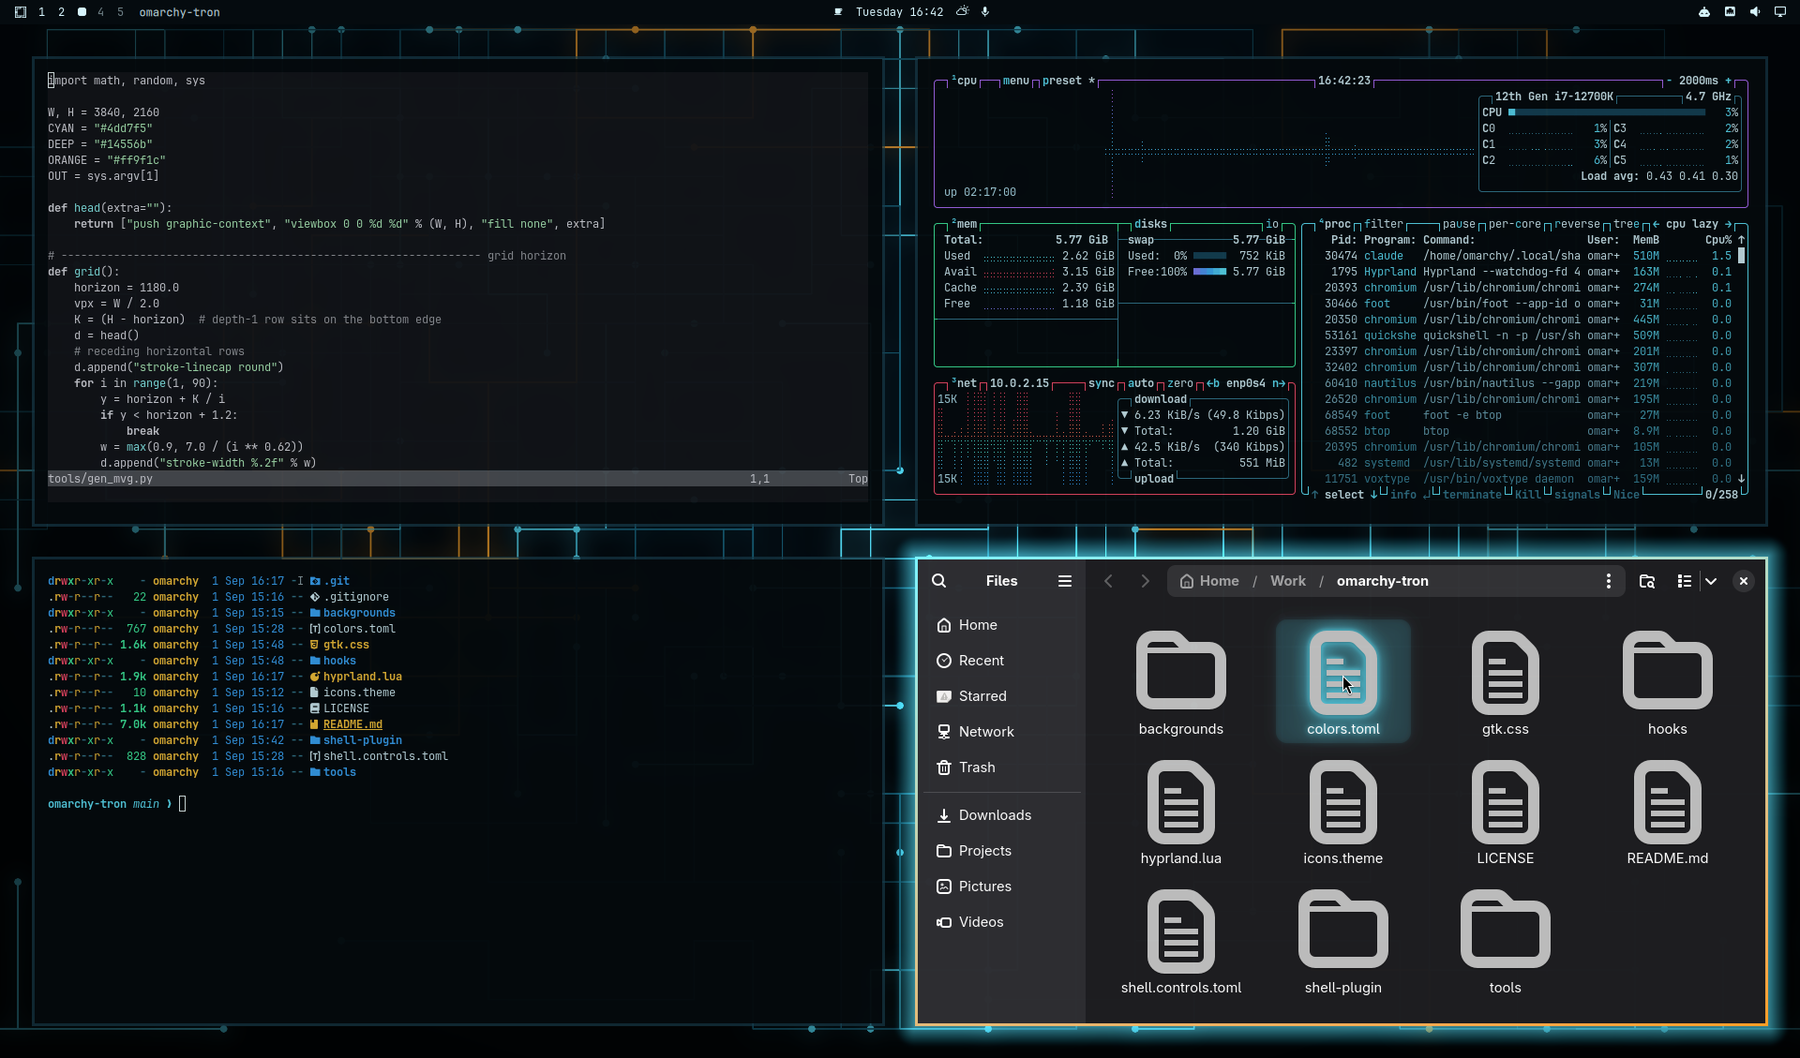
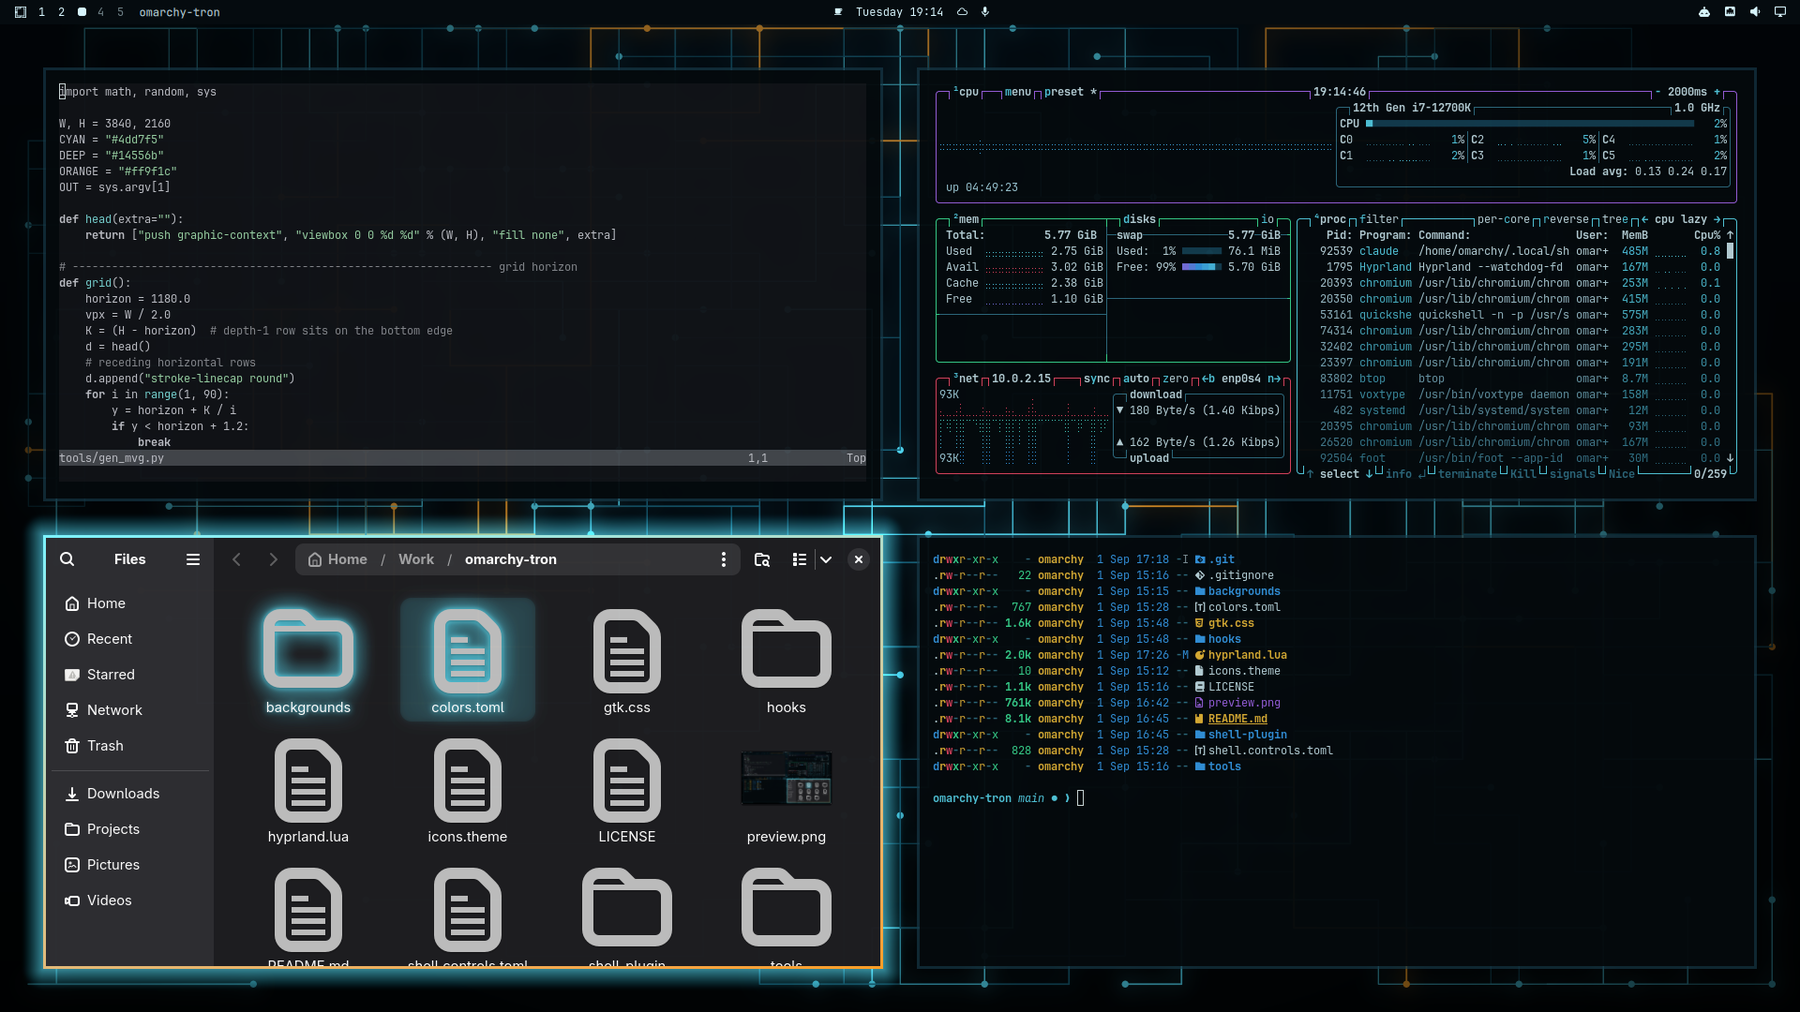
Retake the preview at Omarchy's own 1800x1012
The old shot was 1800x1058, matching this machine's 1.70:1 display
rather than the 16:9 every stock theme's preview.png uses, and it caught
the mouse pointer. Recaptured at 1920x1080 with the cursor hidden — the
file-manager hover glow survives without it — and with wider gaps so the
circuits wallpaper reads behind the windows.

Claude-Session: https://claude.ai/code/session_01NWaWFQubT4oUPh7jT5pPnb

diff --git a/README.md b/README.md
@@ -39,7 +39,7 @@ config you add. Themes installed from a git repo are restricted to colour.
 | `icons.theme` | GTK icon theme to pair with it. |
 | `backgrounds/` | Wallpapers, cycled with `omarchy theme bg next`. |
 | `tools/` | Regenerates `backgrounds/` from vector primitives. |
-| `preview.png` | Submission screenshot, 1800x1058. |
+| `preview.png` | Submission screenshot and theme-switcher preview, 1800x1012 — the 16:9 size Omarchy's own themes use. |
 | `gtk.css` | GTK4 hover glow for Nautilus and other GTK apps. Installed by the hook below, not by Omarchy. |
 | `hooks/` | `theme-set` hook that puts `gtk.css` where GTK4 reads it. |
 | `shell-plugin/` | A cloned Omarchy bar (`tron.bar`) that glows the hovered module. Not part of the theme — installed separately, see below. |
